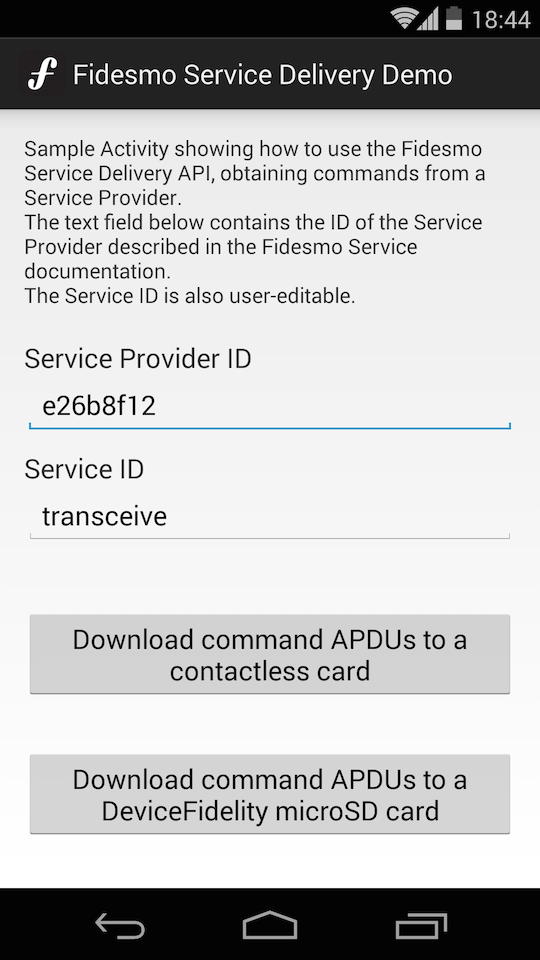
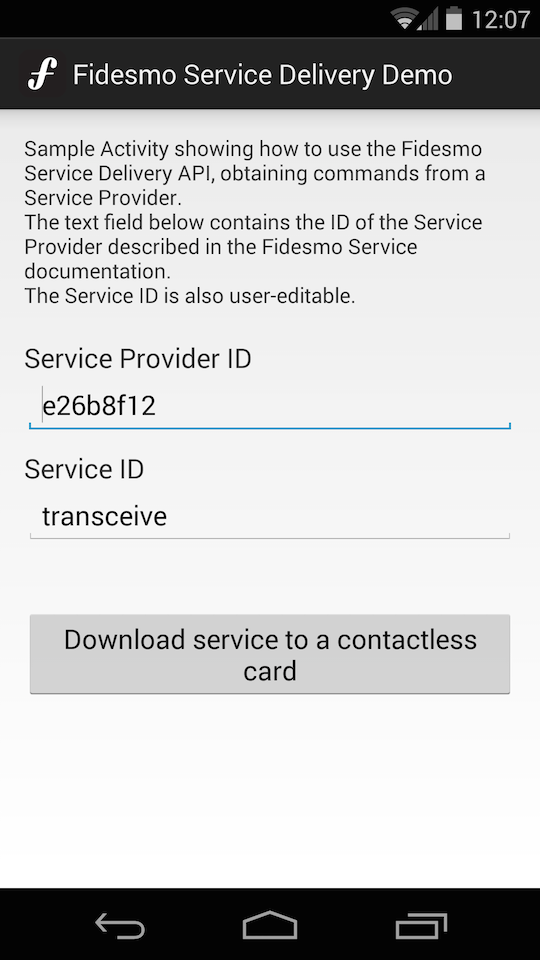
Removed Transceive API mentions from Readme

diff --git a/README.md b/README.md
@@ -2,24 +2,13 @@ Android-Service-Delivery-Demo
 =======================
 
 This repository contains a simple example client showing how to use Fidesmo Service capabilities.
-The client demonstrates two different APIs.
-In order to test them, first follow this common steps:
+In order to test them, please follow these steps:
 
 1. Install the [Fidesmo App](https://play.google.com/store/apps/details?id=com.fidesmo.sec.android) in an NFC-enabled Android phone.
 2. Build this Service Delivery Demo (see instructions below) and install it in the same phone.
+3. You can test the Service Delivery API just by using the default values that appear pre-filled in the fields. They point to an example Service Provider with some available services, for example ``transceive``, ``install``, ``mifare`` and ``mifare-pay``. Its commented source code [is stored here](https://github.com/fidesmo/spray-example).
+4. Push the button to launch the Fidesmo App and deliver the service to a card.
 
-Then, to test the *Service Delivery API:*
-
-3. Launch the Service Delivery Demo app and press the "Service Delivery API" button.
-4. You can test the Service Delivery API just by using the default values that appear pre-filled in the fields. They point to an example Service Provider with two available services, ``transceive`` and ``mifare``. Its commented source code [is stored here](https://github.com/fidesmo/spray-example).
-5. Depending on the type of [Secure Element](http://www.globalplatform.org/mediaguideSE.asp) you are working with, push one of the two available buttons. The Command APDUs sent by the example service will be downloaded to the Secure Element!
-
-In order to test the *Transceive API,* follow this steps:
-
-6. Use [Fidesmo Transceive API](https://developer.fidesmo.com/api) to prepare a set of Command APDUs for downloading. If you haven't done so yet, you can sign up to participate in our Beta at [https://developer.fidesmo.com/](https://developer.fidesmo.com/).
-7. Launch the Transceive Demo and press the "Service Delivery API" button. 
-8. Type the UUID returned by [Fidesmo Transceive API](https://developer.fidesmo.com/api)
-9. Same as with the Service Delivery API push one of the two available buttons to select the Secure Element. The Command APDUs you entered in step 1 will be downloaded to the Secure Element!
 
 Build instructions: command line
 ------------------
@@ -35,6 +24,4 @@ Build instructions: Android Studio IDE
 
 Screenshots
 ---------
-![Screenshot showing the demo app's startup screen](/docs/Initial_screenshot.png "Screenshot showing the demo app's startup screen")
-![Screenshot of the Service Delivery API screen, showing the two buttons and the default service parameters](/docs/ServiceDelivery_screenshot.png "Screenshot of the Service Delivery API screen, showing the two buttons and the default service parameters")
-![Screenshot of the Transceive API screen, showing the two buttons and an example UUID](/docs/Transceive_screenshot.png "Screenshot of the Transceive API screen, showing the two buttons and an example UUID")
+![Screenshot of the Service Delivery API screen, showing the default service parameters](/docs/ServiceDelivery_screenshot.png "Screenshot of the Service Delivery API screen, showing the two buttons and the default service parameters")
